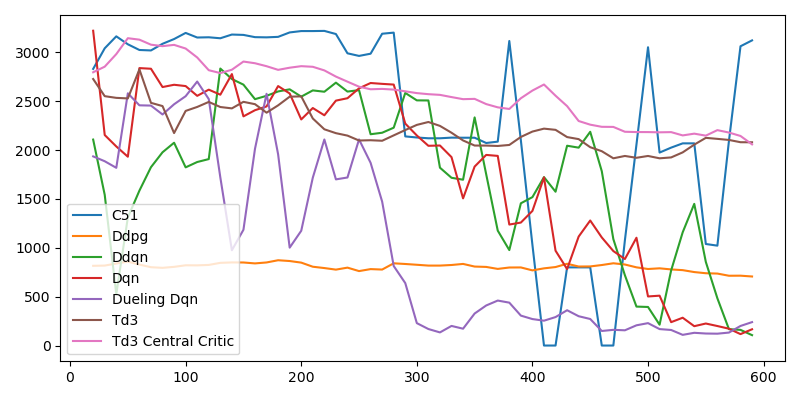
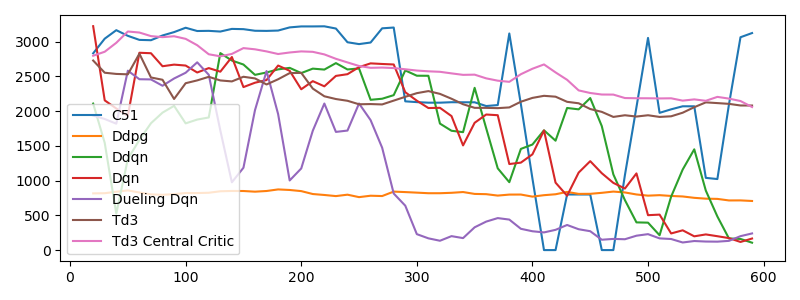
Reduce figure size such that 3 figures can fit on a page

diff --git a/src/analysis/fixed_heuristics/analyse_results.py b/src/analysis/fixed_heuristics/analyse_results.py
@@ -63,22 +63,24 @@ fixed_completed_tasks = [
 
 
 def graph_results():
+    plt.figure(figsize=(8, 3))
     plt.hist(agent_completed_tasks, label='Flexible completed tasks')
-    plt.axvline(agent_completed_tasks.mean(), linewidth=1)
+    plt.axvline(agent_completed_tasks.mean(), linewidth=1, color='blue')
     plt.hist(fixed_completed_tasks, label='Fixed completed tasks')
-    plt.axvline(fixed_completed_tasks.mean(), linewidth=1)
+    plt.axvline(fixed_completed_tasks.mean(), linewidth=1, color='orange')
     plt.legend()
     plt.xlabel('Number of completed tasks')
     plt.ylabel('Frequency')
-    plt.show()
+    plt.tight_layout()
 
     plt.savefig(f'../../../final_report/figures/5_evaluation_figs/fixed_flexible_completed_tasks.png')
+    plt.show()
 
     task_difference = np.subtract(agent_completed_tasks, fixed_completed_tasks)
     plt.hist(task_difference)
-    plt.show()
 
     plt.savefig(f'../../../final_report/figures/5_evaluation_figs/fixed_flexible_tasks_difference.png')
+    plt.show()
 
 
 def statistical_results():
@@ -103,5 +105,5 @@ if __name__ == "__main__":
     assert len(agent_completed_tasks) == len(agent_failed_tasks) == len(agent_attempted_tasks) == len(
         fixed_completed_tasks)
 
-    graph_results()
+    # graph_results()
     statistical_results()
